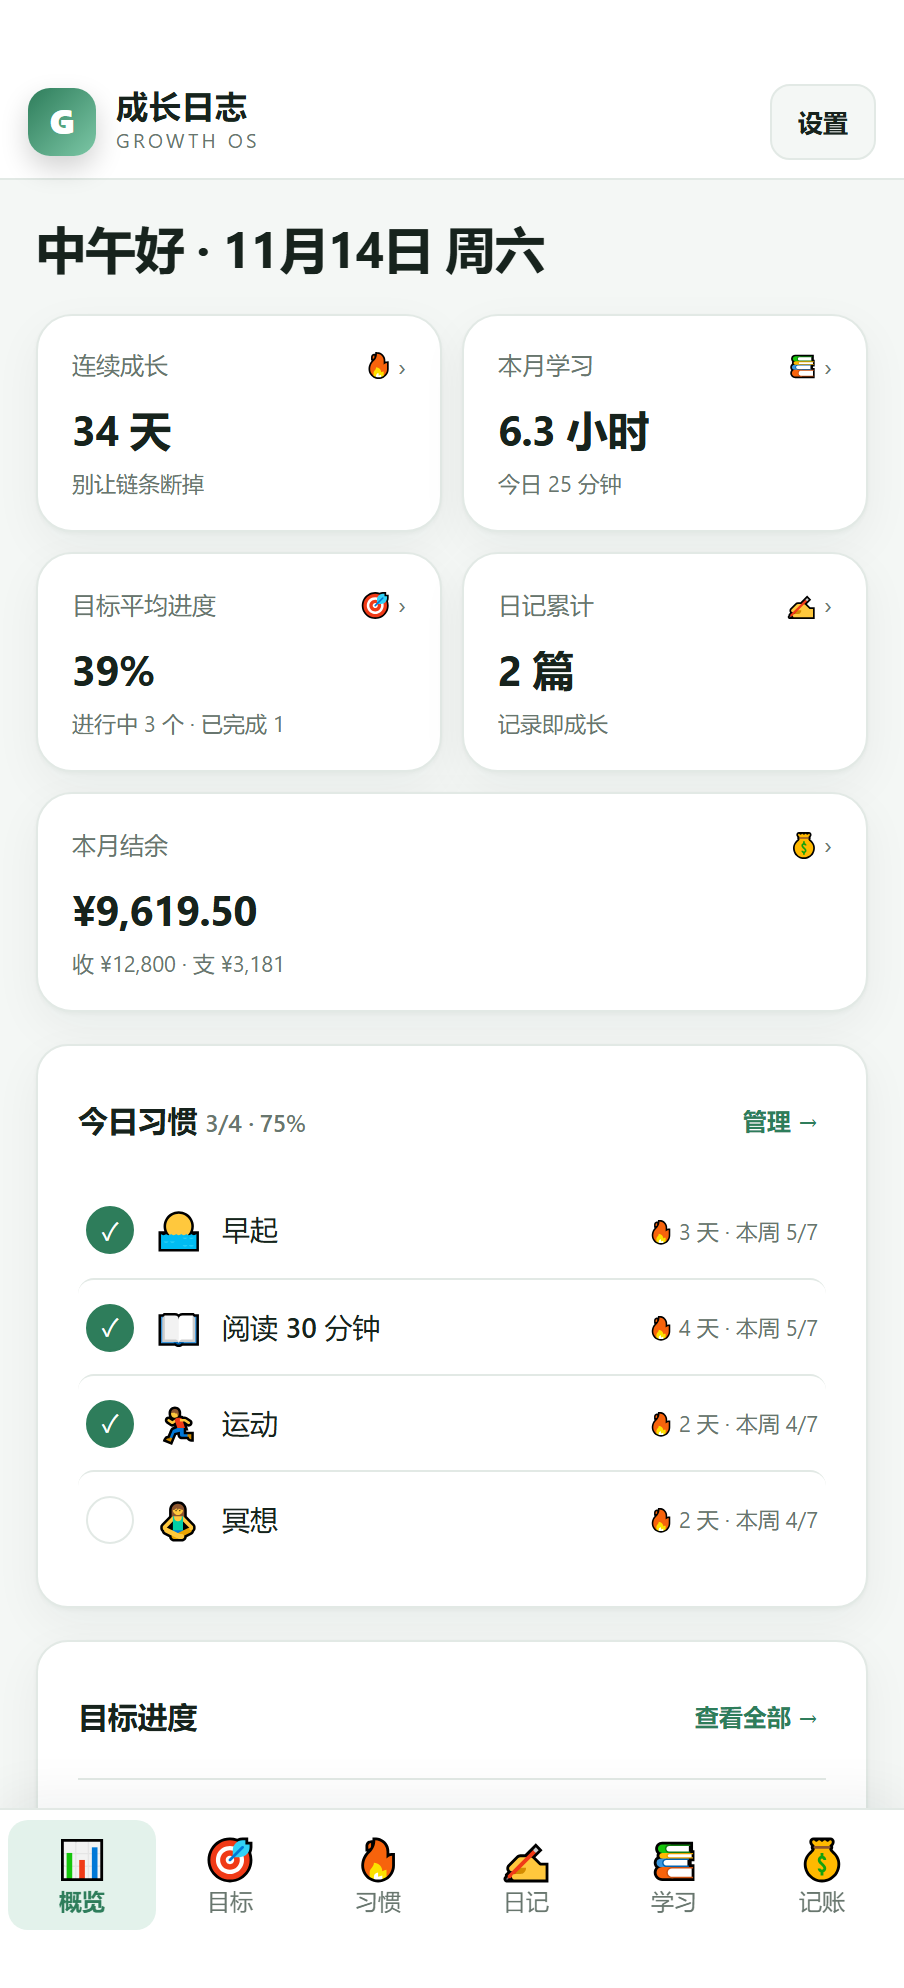
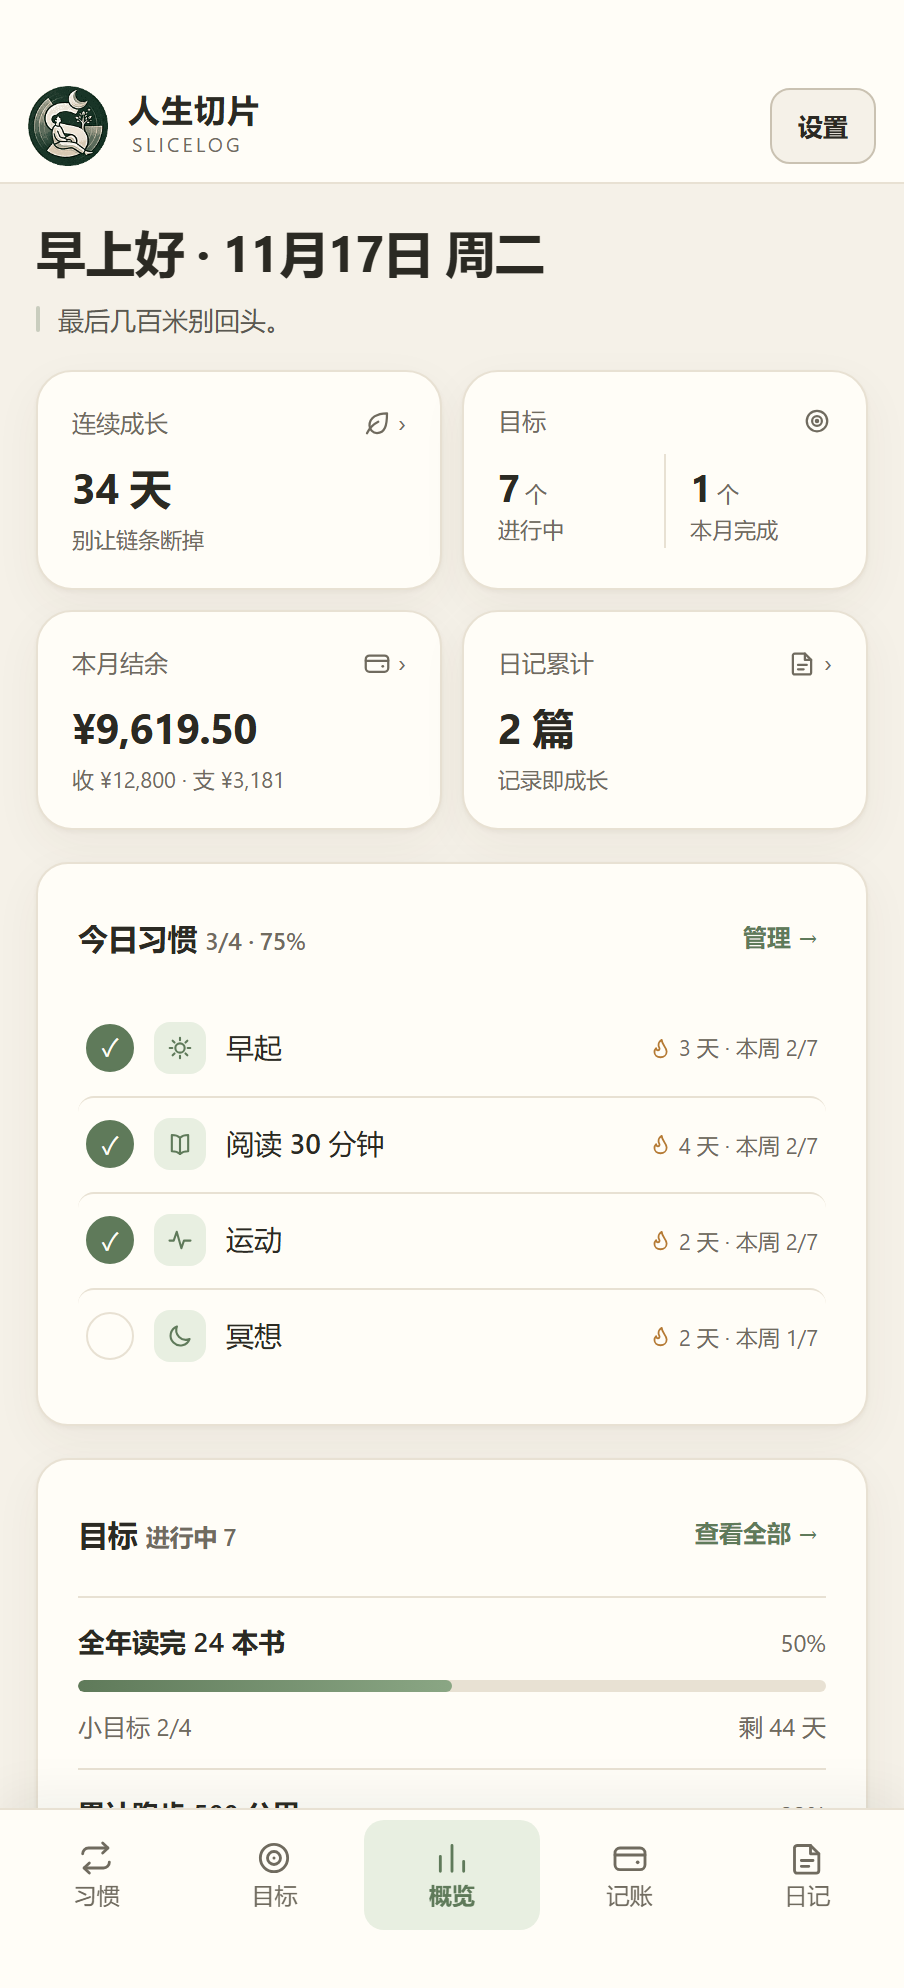
docs: 截图全部重拍，README 同步 V1.0 与提醒下线
- 6 张截图换成当前界面（人生切片徽章、五项导航、环形图），新增设置面板一张，替掉原来的「到期提醒」
- README 删掉提醒相关条目（功能列表、技术实现表、iOS 对比表、目录结构、已知限制）
- 补「设置」一节与月份选择器的说明，标注当前版本 V1.0

diff --git a/README.md b/README.md
@@ -12,6 +12,8 @@
 
 > **下载安装**：到 [Releases](https://github.com/Bacondam/slicelog/releases) 取最新 APK；也可以按下方「构建」一节自行编译。
 >
+> 当前版本 **V1.0**（应用内「设置」面板底部显示同一个版本号）。
+>
 > **iPhone**：把 `ios/` 部署到任意静态托管，Safari 打开后「添加到主屏幕」，全程无需上架 App Store（详见「iOS / Web 版」）。
 >
 > 注意：Release 里的 APK 由 GitHub Actions 用 runner 的临时调试签名编译，和自己在本机 `assembleDebug` 出来的签名不同，
@@ -25,9 +27,9 @@
 |---|---|---|
 | <img src="docs/screenshots/dashboard.png" width="220"> | <img src="docs/screenshots/detail.png" width="220"> | <img src="docs/screenshots/goals.png" width="220"> |
 
-| 日记（年月折叠） | 记账 | 到期提醒 |
+| 日记（年月折叠） | 记账 | 设置 |
 |---|---|---|
-| <img src="docs/screenshots/journal.png" width="220"> | <img src="docs/screenshots/finance.png" width="220"> | <img src="docs/screenshots/reminder.png" width="220"> |
+| <img src="docs/screenshots/journal.png" width="220"> | <img src="docs/screenshots/finance.png" width="220"> | <img src="docs/screenshots/settings.png" width="220"> |
 
 ---
 
@@ -39,7 +41,7 @@
 - 网页中的封面与两处 logo 均把 PNG 以 Base64 直接内嵌进 `index.html`，不依赖 WebView 对 `file:///android_asset/` 相对路径子资源的读取，避免部分真机出现裂图
 - 顶栏中文标题保持原位，英文副标题用 `margin-left:2px` 右移，对齐两行视觉左缘
 - 启动封面停留 **1.5 秒**后 0.44 秒淡出，期间锁住背景滚动；带 `?nosplash=1` 可跳过（自动化测试用）
-- 首屏渲染推迟到封面淡出完成后再执行，目标到期提醒也顺延到封面退场后，避免和淡出动画抢主线程造成掉帧卡顿
+- 首屏渲染推迟到封面淡出完成后再执行，避免和淡出动画抢主线程造成掉帧卡顿
 - Android 12+ 强制经过系统 SplashScreen，无法从 API 彻底关闭；将系统图标设为全透明、退出动画设为 0，底色与网页封面一致，视觉上只保留网页这一段封面
 
 ---
@@ -54,17 +56,16 @@
 **概览**
 - 四张统计卡：连续成长 / **目标** / 本月结余 / 日记累计。「目标」是一张**双数据卡**，左格进行中、右格本月完成，两格都能点进目标分析页
 - **目标**一张卡：进行中的目标逐条列进度，两种推进方式在小卡上也一眼能分辨
-- 成长热力图、今日习惯速览、最近日记
+- 往下依次是**今日习惯**（今日完成度 + 一键打卡）、**目标进度**、**最近日记**；成长热力图已去掉，一屏能看完要紧的信息
 
 **目标**
 - 只有两种推进方式，新建时二选一：
   - **拆小目标**：一行一条，勾完了才算完成；没勾完就想标记完成会被拦下，并抖一下提示还差几个
   - **按数量**：填「当前 / 总量 + 单位」（页、讲、本、公里…），卡片上是进度条 + `9/24 本`，点「更新进度」改个数字就推着走
 - 分类（学习 / 健康 / 事业 / 财务 / 关系 / 其他）只是标签，点分类不会再跳去另一套界面
-- 支持分类筛选、截止日期与截止时间
+- 支持分类筛选、截止日期与截止时间（只用来算「还剩几天」，不做系统提醒）
 - 完成后标题划线、整体灰显，自动落到「已完成」区，并**逐条折叠成一行**，点箭头单独展开
 - **批量整理**：已完成区右上角勾选任意几条，一键「归档」或「删除」；归档只是收起来，进「已归档」可随时「恢复」，也可整段清空
-- **到期前 1 小时提醒**：前台弹应用内提醒层，App 关闭或后台时走系统通知（精确闹钟，重启手机自动重排）
 
 **为什么不再有「学习」**
 - v2.1 把学习并进目标后，目标页上同时存在「+ 目标」和「+ 学习」两条入口，分类里点「学习」还会弹出一套完全不同的学习弹窗，同一个页面两套规则，反而更难用
@@ -81,6 +82,7 @@
 
 **记账**
 - 收入 / 支出记账，支持分类、月度与年度两种总览
+- **月份标题可以点**：弹出 12 格月份面板，每格带当月结余，顶部切年份、底部一键回到本月；记账日期用系统原生日期框，深色主题下也跟主题走
 - 分类图标全部为线性 SVG（碗、车、袋、房、播放、药、书、礼物…），行内编辑 / 删除与目标页同一规格
 - **流水与支出分类合在一张「账单」卡里**：卡内用「流水 / 支出分类」分段切换，默认看流水，要看构成再切过去，页面因此少一张卡、短一截
 - 顺序按「记完就看」排：本月统计 → 快捷记一笔 → 账单（流水 / 分类），明细不再压在最底下
@@ -91,6 +93,11 @@
 - 每套只有 1 个强调色 + 3 级中性色；可交互元素（按钮、输入框、折叠箭头）用比结构线更亮一档的描边，暗色下也看得清
 - 下拉框全部自绘，不再调系统列表（系统列表在深色下会白底浅字）；选项面板跟随主题
 - 全量对比度受测试保护：五套主题 × 六个视图，正文最低 4.65:1、控件描边最低 1.55:1
+
+**设置**
+- 按用途分三组：**备份**（分享备份到微信 / 导出 / 导入 / 恢复自动存档）、**外观**（主题）、**清空数据**
+- 「分享备份到微信」是组里的主按钮（主色整行），危险操作「清空数据」单独一组并保持红色，误点概率降到最低
+- 面板底部显示当前版本；手机上从右上角弹出、内容多时面板内部滚动，桌面端则是侧栏底部单列排列
 
 **数据安全**
 - 每次改动自动快照到应用私有目录（按天保留 8 份），可一键恢复
@@ -114,7 +121,7 @@
 | 安全区 | WebView 中 `env(safe-area-inset-*)` 恒为 0，改为原生读取 `WindowInsets`（R+ `systemBars()+displayCutout()+ime()`，低版本 `getSystemWindowInset*`），写入 CSS 变量 `--sat/--sar/--sab/--sal` |
 | 深色模式 | `values-v29/styles.xml` 关闭 `forceDarkAllowed`，避免 ColorOS / MIUI 二次反色破坏配色 |
 | 输入缩放 | 锁定 `textZoom`，输入控件字号 ≥16px，防止聚焦时整页放大 |
-| 提醒 | `AlarmManager.setExactAndAllowWhileIdle` + `BroadcastReceiver` 发通知，`BOOT_COMPLETED` 重新排程 |
+| 权限 | **一个都不申请**：不联网、不发通知、不常驻后台，装完即用，不用去各家 ROM 里放行自启动 |
 
 设计上只依赖系统能力，所以同一份 `index.html` 直接用浏览器打开也能跑（桌面端调试很方便）。
 
@@ -165,7 +172,6 @@ node tools/serve.cjs          # 本地预览 http://127.0.0.1:8773/
 
 | 能力 | Android | iOS PWA |
 |---|---|---|
-| 系统通知 / 到期提醒 | ✅ AlarmManager 精确闹钟 | ❌ 只有前台应用内提醒 |
 | 安全区适配 | 原生 WindowInsets 写 CSS 变量 | ✅ `env(safe-area-inset-*)` 原生生效 |
 | 导出 / 分享备份 | ✅ 系统文件选择器 + 分享面板 | ✅ `navigator.share` |
 | 微信里点开备份直接导入 | ✅ intent-filter | ⚠ 只能在 App 内手动选文件 |
@@ -188,8 +194,7 @@ slicelog/
 │       ├── AndroidManifest.xml
 │       ├── assets/index.html           # 全部界面与业务逻辑
 │       ├── java/com/growthos/journal/
-│       │   ├── MainActivity.java       # WebView 外壳、安全区、桥接、备份
-│       │   └── GoalAlarmReceiver.java  # 到期提醒、开机重排
+│       │   └── MainActivity.java       # WebView 外壳、安全区、桥接、备份
 │       └── res/                        # 主题、图标、文案
 ├── ios/                                # iOS / Web（PWA，纯静态）
 │   ├── index.html                      # 同一套界面
@@ -220,6 +225,10 @@ node tests/v20a-check.cjs     # 品牌更名 / 概览双数据卡 / 记账合并
 node tests/v20a-contrast.cjs  # 双数据卡与记账页签的跨主题对比度
 node tests/theme-audit.cjs    # 五套主题 × 全部视图/弹窗的对比度审计
 node tests/contrast.cjs       # 主题令牌 WCAG 对比度
+node tests/v211-check.cjs     # 年度结余环形图 / 月份选择器 / 日期框主题
+node tests/v212-check.cjs     # 原生日期框、环形图图例、清空数据两道确认
+node tests/v215-check.cjs     # 提醒已整体移除 / 设置面板分组与版本号
+node tests/docs-shots.cjs     # 重新生成 docs/screenshots 里的 README 截图
 ```
 
 ---
@@ -235,7 +244,7 @@ node tests/contrast.cjs       # 主题令牌 WCAG 对比度
 ## 已知限制
 
 - 不支持多设备同步（离线优先的取舍）
-- 提醒依赖系统「精确闹钟」权限；部分系统会限制后台自启，需要在设置里放行
+- 没有系统通知与后台提醒：目标到期只在应用内看「还剩几天」。这一版刻意不做 —— 国产 ROM 会把后台任务清掉，闹钟要权限、要白名单、还要常驻一条通知，代价大于收益
 - 仅针对手机竖屏优化，平板为自适应布局
 
 ---
